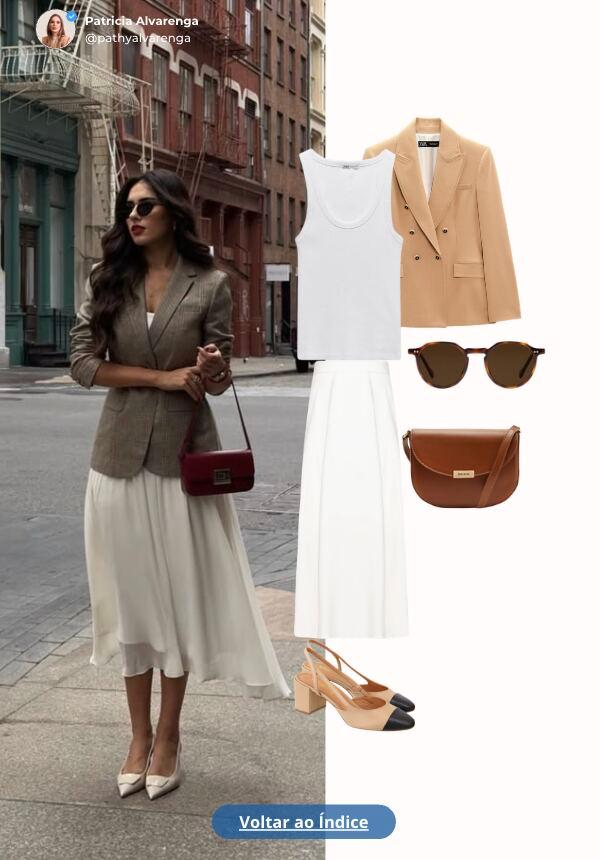
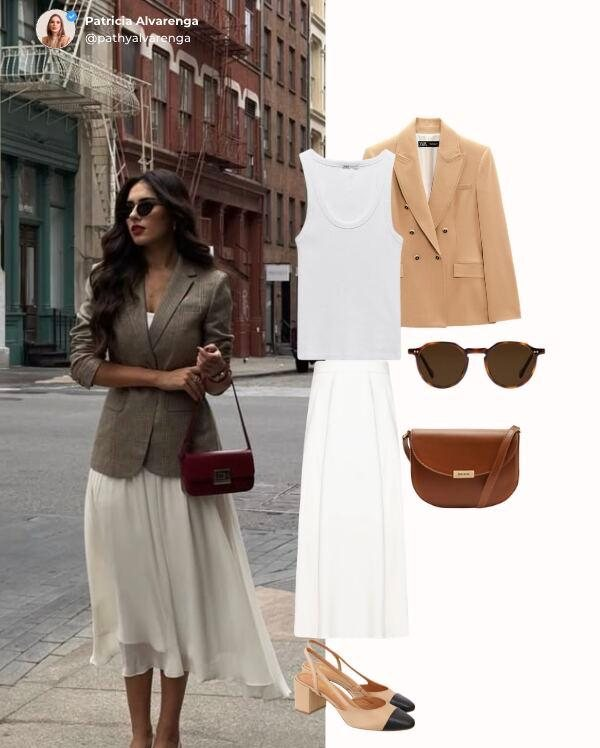
feat: Spanish benefit-card mockups, named result photos, strip PT text from look images
- rebuilt the 'links/calzado' and 'climas fríos' preview cards as Spanish HTML
  mockups (product photos cropped from the originals)
- result photos get Mexican-neutral name pills (Ximena, Andrea, ...)
- cropped baked-in 'Voltar ao Indice' off look-1/look-2

diff --git a/src/pages/Oferta.tsx b/src/pages/Oferta.tsx
@@ -73,15 +73,15 @@ const BONUS = [
   "Guías de combinación de prendas, materiales generales con combinaciones por tipo de prenda: blusa, pantalón, falda y otras (para quienes envíen sus looks).",
 ];
 
-const RESULT_IMGS = [
-  `${A}/looks-adriely-Cwcudlr2.jpg`,
-  `${A}/looks-clara-0m-JWbhg.jpg`,
-  `${A}/looks-indianara-B8zhfQTC.jpg`,
-  `${A}/looks-juliana-Bwzs0WJ2.jpg`,
-  `${A}/looks-gabriela-lDo2dx3c.jpg`,
-  `${A}/looks-analuiza-wygCx5_v.jpg`,
-  `${A}/looks-rosana-BQG3EoyS.jpg`,
-  `${A}/looks-lais-BNyPyCoE.jpg`,
+const RESULT_IMGS: { src: string; name: string }[] = [
+  { src: `${A}/looks-adriely-Cwcudlr2.jpg`, name: "Ximena" },
+  { src: `${A}/looks-clara-0m-JWbhg.jpg`, name: "Andrea" },
+  { src: `${A}/looks-indianara-B8zhfQTC.jpg`, name: "Paulina" },
+  { src: `${A}/looks-juliana-Bwzs0WJ2.jpg`, name: "Mariana" },
+  { src: `${A}/looks-gabriela-lDo2dx3c.jpg`, name: "Alejandra" },
+  { src: `${A}/looks-analuiza-wygCx5_v.jpg`, name: "Renata" },
+  { src: `${A}/looks-rosana-BQG3EoyS.jpg`, name: "Carolina" },
+  { src: `${A}/looks-lais-BNyPyCoE.jpg`, name: "Mónica" },
 ];
 
 const BEFORE = [
@@ -107,6 +107,55 @@ function useName() {
   const [name, setName] = useState("");
   useEffect(() => setName(localStorage.getItem("quiz_name") || ""), []);
   return name;
+}
+
+/** Mini header shown inside the benefit-preview mockups (in place of the PT screenshots). */
+function MockHeader() {
+  return (
+    <div className="flex items-center gap-2 px-3 pt-3">
+      <img src={`${A}/av-patricia.jpg`} alt="Patricia Alvarenga" className="w-6 h-6 rounded-full object-cover" />
+      <div className="leading-tight">
+        <p className="text-[10px] font-semibold text-foreground">Patricia Alvarenga</p>
+        <p className="text-[9px] text-muted-foreground">@pathyalvarenga</p>
+      </div>
+    </div>
+  );
+}
+
+function MockLinks() {
+  return (
+    <div className="w-full h-full overflow-hidden bg-background flex flex-col">
+      <MockHeader />
+      <div className="px-3 mt-1">
+        <p className="text-[11px] text-foreground">Enlaces de las 30 prendas</p>
+        <p className="text-xs font-bold text-foreground border-b border-border pb-1">Calzado</p>
+      </div>
+      <div className="grid grid-cols-3 gap-1 px-3 mt-2">
+        {["shoe-heel", "shoe-sandalheel", "shoe-sneaker"].map((s) => (
+          <div key={s} className="flex flex-col items-center gap-1">
+            <img src={`${A}/${s}.png`} alt="" className="h-10 object-contain" />
+            <span className="text-[8px] font-bold text-white bg-green-700 rounded px-2 py-0.5">Opción 1</span>
+            <span className="text-[8px] font-bold text-white bg-green-700 rounded px-2 py-0.5">Opción 2</span>
+          </div>
+        ))}
+      </div>
+    </div>
+  );
+}
+
+function MockClimas() {
+  return (
+    <div className="w-full h-full overflow-hidden bg-background flex flex-col">
+      <MockHeader />
+      <p className="text-xs font-bold text-foreground text-center px-3 mt-1 leading-tight">
+        Sustituciones para climas más fríos ❄
+      </p>
+      <img src={`${A}/clima-row0.png`} alt="Sustituciones de prendas para frío" className="w-full object-contain mt-1 px-2" />
+      <p className="text-[8px] text-muted-foreground px-3 mt-1 leading-tight">
+        Tops sin mangas → blusas térmicas de manga larga (en negro y blanco).
+      </p>
+    </div>
+  );
 }
 
 function Benefits() {
@@ -135,20 +184,8 @@ function Benefits() {
                     <img src={`${A}/look-2-CYMxGEya.jpg`} alt="Look 2" className="w-1/2 h-full object-cover" />
                   </div>
                 )}
-                {b.type === "links" && (
-                  <img
-                    src={`${A}/links-calcados-D65_c9BC.png`}
-                    alt="Enlaces de las prendas"
-                    className="w-full h-full object-cover object-top"
-                  />
-                )}
-                {b.type === "climas" && (
-                  <img
-                    src={`${A}/climas-frios-BeG6_2Lr.png`}
-                    alt="Adaptación a diferentes climas"
-                    className="w-full h-full object-cover object-top"
-                  />
-                )}
+                {b.type === "links" && <MockLinks />}
+                {b.type === "climas" && <MockClimas />}
                 {b.type === "masterclass" && (
                   <div className="relative w-full h-full">
                     <img
@@ -261,8 +298,13 @@ function SocialProof() {
         </h2>
         <CommentList className="mb-8" />
         <div className="space-y-4">
-          {RESULT_IMGS.map((src, i) => (
-            <img key={i} src={src} alt={`Resultado ${i + 1}`} className="w-full rounded-xl border border-border" />
+          {RESULT_IMGS.map((r, i) => (
+            <div key={i} className="relative">
+              <img src={r.src} alt={`Resultado de ${r.name}`} className="w-full rounded-xl border border-border" />
+              <span className="absolute top-2 left-1/2 -translate-x-1/2 bg-white/95 text-foreground text-xs font-semibold px-3 py-1 rounded-full shadow-sm">
+                {r.name}
+              </span>
+            </div>
           ))}
         </div>
       </div>
